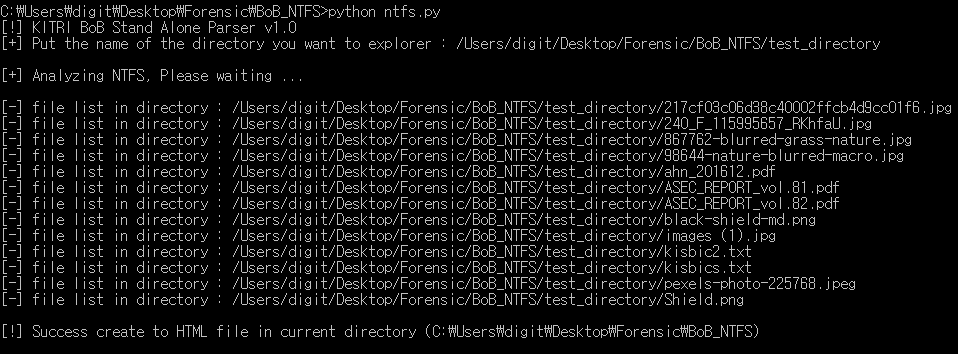
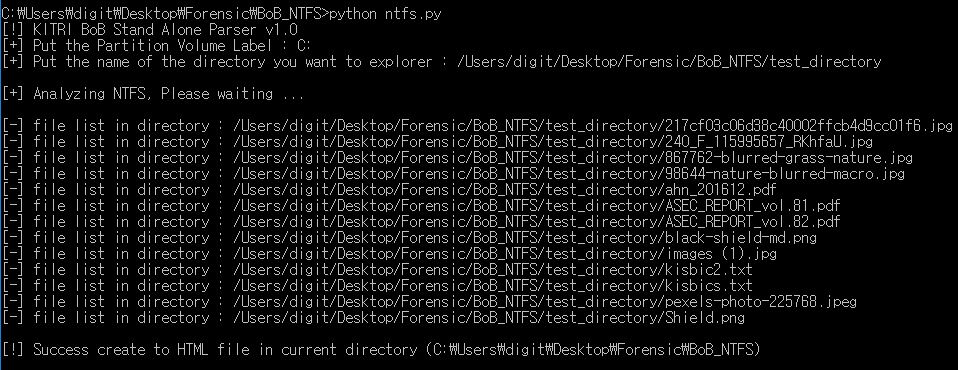
Add files via upload

Changed region(s): [[0.0, 0.0, 0.999, 0.8701], [0.4843, 0.0932, 0.9081, 0.1864], [0.0, 0.9011, 0.7871, 0.9633]]

diff --git a/BoB_NTFS/ntfs.py b/BoB_NTFS/ntfs.py
@@ -1,0 +1,195 @@
+#!/usr/bin/python
+#Reference : https://github.com/py4n6/pytsk/wiki/Development
+
+import os
+import sys
+import datetime
+import psutil
+import pytsk3
+
+top_area = '''
+<!DOCTYPE html>
+<html>
+<head>
+<title>HTML table demo</title>
+
+<script src="./sorttable.js"></script>
+<style>
+/*Using CSS for table*/
+.demotbl {
+    border: 0px solid #69899F;
+  }
+.demotbl th{
+    padding:15px;
+    color:#fff;
+    text-shadow:1px 1px 1px #568F23;
+    border-bottom:3px solid #9ED929;
+    background-color:#9DD929;
+    background:-webkit-gradient(
+        linear,
+        left bottom,
+        left top,
+        color-stop(0.02, rgb(123,192,67)),
+        color-stop(0.51, rgb(139,198,66)),
+        color-stop(0.87, rgb(158,217,41))
+        );
+    background: -moz-linear-gradient(
+        center bottom,
+        rgb(123,192,67) 3%,
+        rgb(139,198,66) 52%,
+        rgb(158,217,41) 88%
+        );
+    -webkit-border-top-left-radius:5px;
+    -webkit-border-top-right-radius:5px;
+    -moz-border-radius:5px 5px 0px 0px;
+    border-top-left-radius:5px;
+    border-top-right-radius:5px;
+  }
+.demotbl td{
+    width:100px;
+    padding:10px;
+    text-align:center;
+    vertical-align: top;
+    background-color:#DEF3CA;
+    border: 1px solid #BED3AB;
+    -moz-border-radius:2px;
+    -webkit-border-radius:2px;
+    border-radius:2px;
+    color:#666;
+    text-shadow:1px 1px 1px #fff;
+
+  }
+
+</style>
+</head>
+<body>
+<p>KITRI BoB Stand Alone Parser v1.0</p>
+<table class="demotbl sortable">
+  <tr>
+      <th>Number</th>
+      <th>File Name</th>
+      <th>Full Path</th>
+      <th>M Time</th>
+      <th>A Time</th>
+      <th>C Time</th>
+      <th>E Time</th>
+  </tr>
+'''
+
+bottom_area = '''
+</table>
+</body>
+</html>
+'''
+
+def directory_explorer(directory_object, parent_path ,top_area):
+
+    count_num = 0
+
+    for image_entry in directory_object:
+        if image_entry.info.name.name in [".", ".."]:
+            continue
+
+        try:
+            file_type = image_entry.info.name.type
+            size = image_entry.info.meta.size
+
+        except Exception as error:
+            print "[!] No more files to read"
+            exit()
+
+        try:
+            count_num += 1
+            file_path = '%s/%s' % ('/'.join(parent_path),image_entry.info.name.name)
+
+            if parent_path == []:
+                full_path = '%s%s/%s' % (directory_path,'/'.join(parent_path),image_entry.info.name.name)#
+                print "[-] file list in directory : " + str(full_path)
+
+            else:
+                full_path = '%s/%s/%s' % (directory_path,'/'.join(parent_path),image_entry.info.name.name)
+                print "[-] file list in directory : " + str(full_path)
+
+            # Convert name to file_path (/~/~/)
+
+            modified_time = datetime.datetime.fromtimestamp(image_entry.info.meta.mtime)
+            accessed_time = datetime.datetime.fromtimestamp(image_entry.info.meta.atime)
+            created_time = datetime.datetime.fromtimestamp(image_entry.info.meta.crtime)
+            edited_time = datetime.datetime.fromtimestamp(image_entry.info.meta.ctime)
+            # Load original mace time
+
+            cv_modified_time = modified_time.strftime('%Y/%m/%d %H:%M:%S (UTC/GMT +9:00)')
+            cv_accessed_time = accessed_time.strftime('%Y/%m/%d %H:%M:%S (UTC/GMT +9:00)')
+            cv_created_time = created_time.strftime('%Y/%m/%d %H:%M:%S (UTC/GMT +9:00)')
+            cv_edited_time = edited_time.strftime('%Y/%m/%d %H:%M:%S (UTC/GMT +9:00)')
+            # Convert mace time to adapt format (Timezone UTC)
+
+
+            middle_area = '''
+            <tr>
+              <td>%s</td>
+              <td><a href="%s">%s</a></td>
+              <td>%s</td>
+              <td>%s</td>
+              <td>%s</td>
+              <td>%s</td>
+              <td>%s</td>
+          </tr>
+          '''%(count_num, full_path, file_path, full_path, cv_modified_time, cv_accessed_time, cv_created_time, cv_edited_time)
+            top_area += middle_area
+
+            if file_type == pytsk3.TSK_FS_NAME_TYPE_DIR:
+                sub_directory = image_entry.as_directory()
+                parent_path.append(image_entry.info.name.name)
+                directory_explorer(sub_directory, parent_path, top_area)
+                parent_path.pop(-1)
+
+            elif file_type == pytsk3.TSK_FS_NAME_TYPE_REG and image_entry.info.meta.size != 0:
+                offset = 0
+                BUFF_SIZE = 1024 * 1024
+
+                while offset < image_entry.info.meta.size:
+                    available_to_read = min(BUFF_SIZE, image_entry.info.meta.size - offset)
+                    file_data = image_entry.read_random(offset, available_to_read)
+                    offset += len(file_data)
+
+        except:
+            continue
+
+    return top_area
+
+print "[!] KITRI BoB Stand Alone Parser v1.0"
+partition_name = raw_input("[+] Put the Partition Volume Label : ")
+directory_path = raw_input("[+] Put the name of the directory you want to explorer : ")
+print "\n[+] Analyzing NTFS, Please waiting ...\n"
+
+partition_list = psutil.disk_partitions()
+#Load partiton_list
+
+for partition in partition_list:
+    #Input partition_list
+
+  if partition.device.strip("\\") == partition_name:
+    
+    load_img = pytsk3.Img_Info('\\\\.\\'+partition.device.strip("\\"))
+      #To load a file system via pytsk3
+      
+    if "NTFS" in partition.fstype:
+          #Insfection NTFS Filesystem
+
+      file_system = pytsk3.FS_Info(load_img)
+        #To access a file system via pytsk3
+      directory_object = file_system.open_dir(path=directory_path)
+
+      top_area = directory_explorer(directory_object,[], top_area)
+
+  else:
+    continue
+
+current_path = os.getcwd()
+
+print "\n[!] Success create to HTML file in current directory (%s)" % (current_path)
+
+f = open('viewer.html', 'w')
+f.write(top_area + bottom_area)
+f.close()
